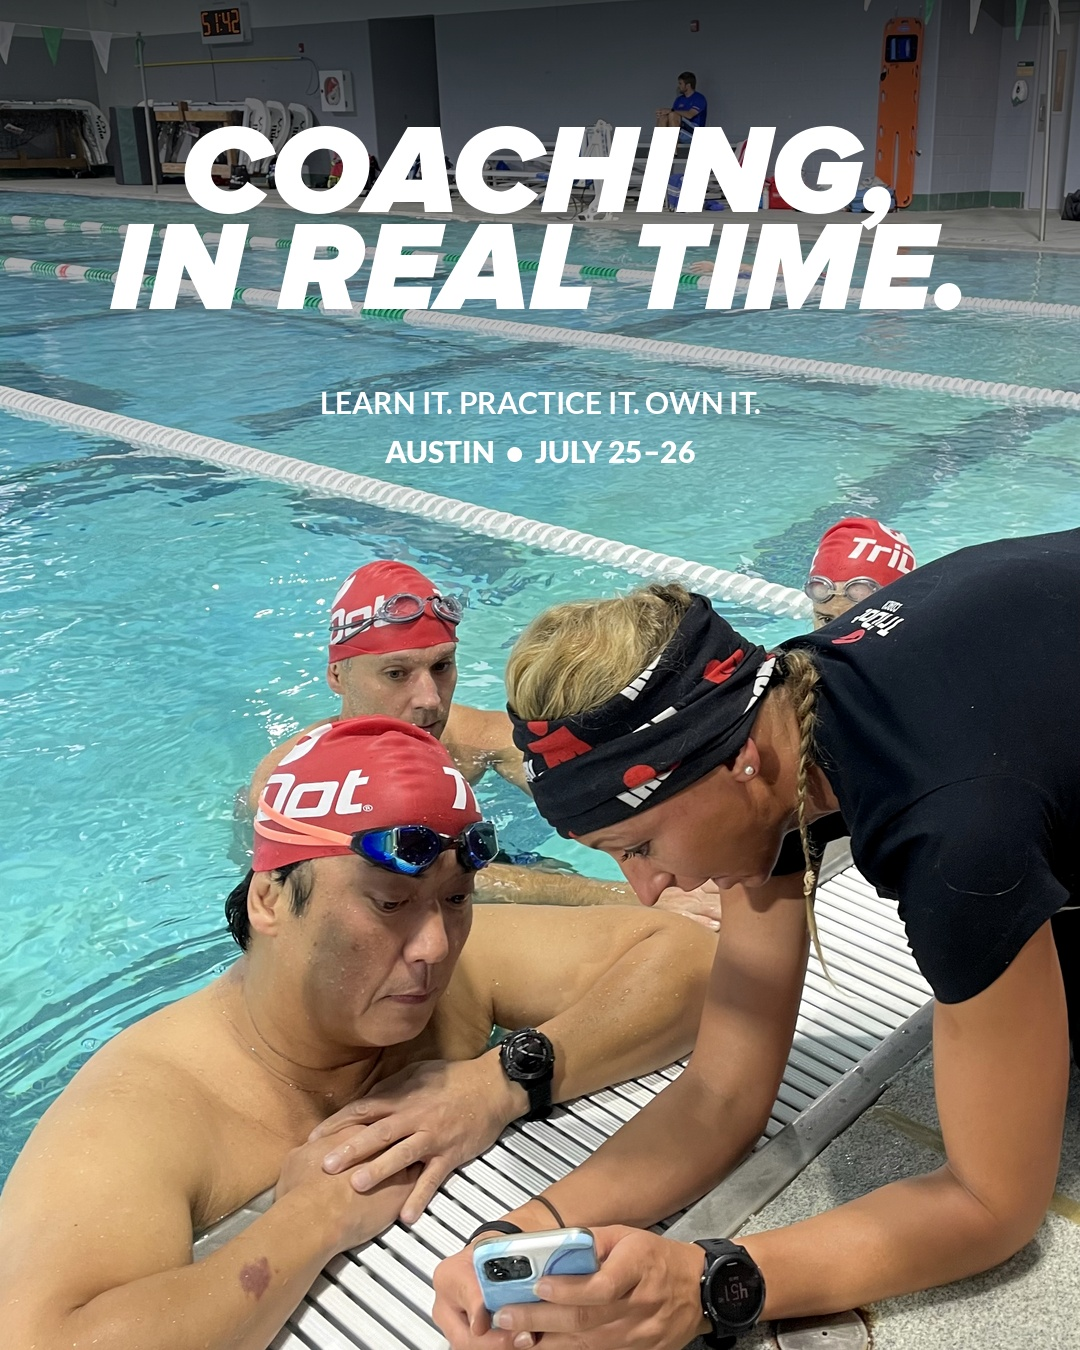
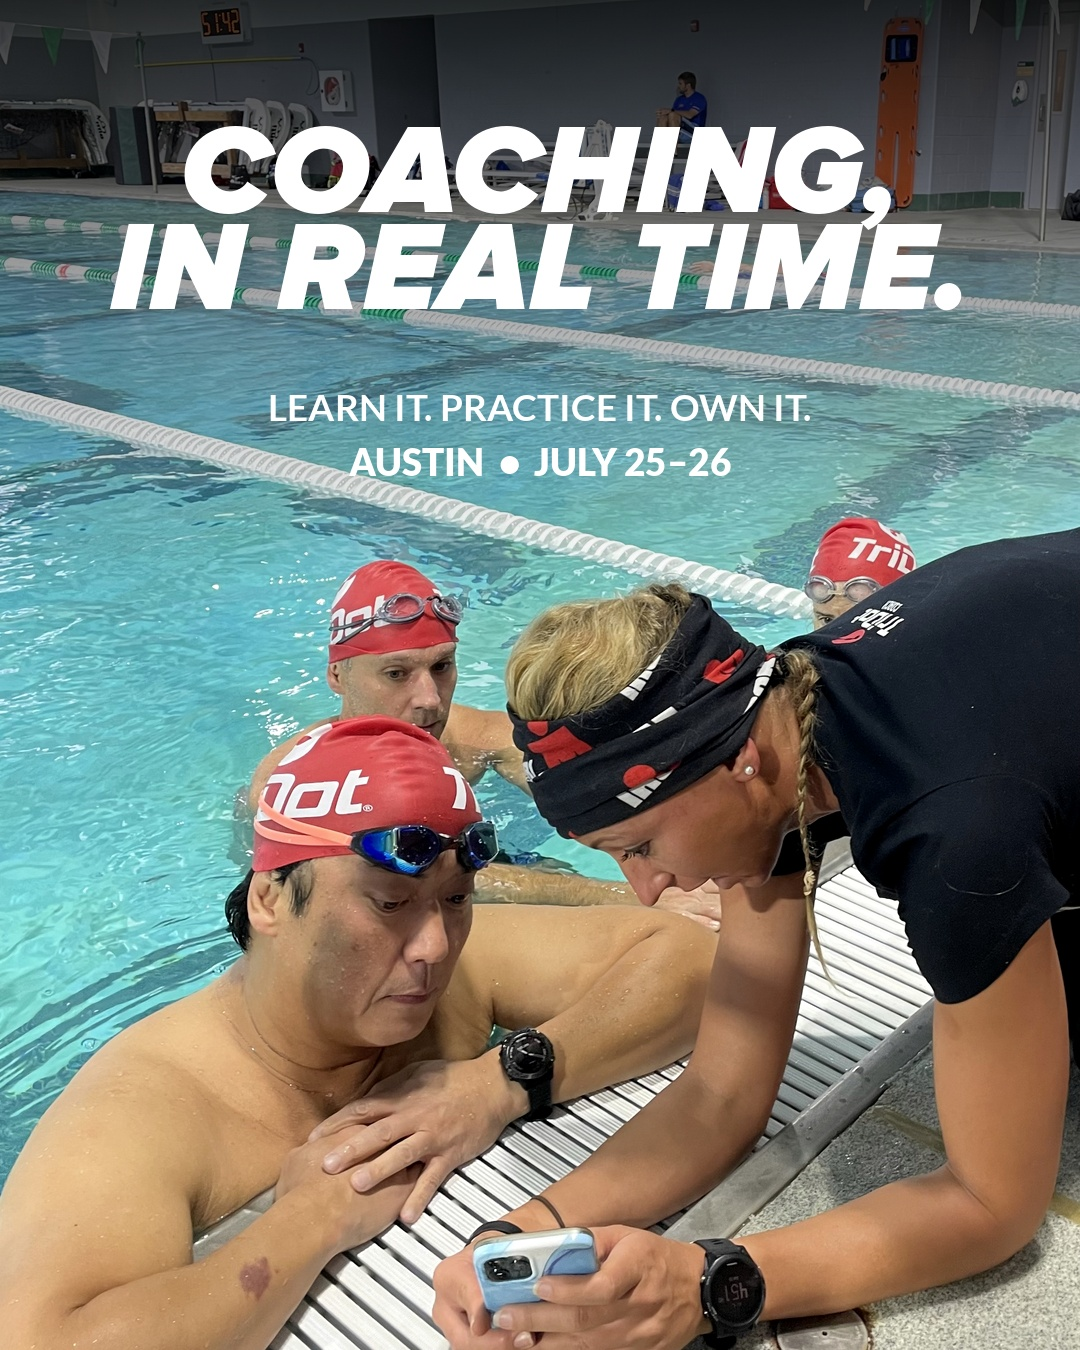
Refine top fade and supporting type on feedback post

Changed region(s): [[0.2444, 0.28, 0.7639, 0.3733]]

diff --git a/austin-pool-school-review/index.html b/austin-pool-school-review/index.html
@@ -15,5 +15,5 @@ const posts=[
 ['08-detail-matters.jpg','VALUE','The details make the difference','Small technique changes can lead to meaningful progress. Get focused coaching and drills designed to help you apply it back in your own training.'],
 ['09-personal-feedback.jpg','VALUE','Real-time feedback','See it. Understand it. Practice it. Bring your swim questions to Austin and leave with practical tools for your next session.'],
 ['10-austin-register-now.jpg','EVENT PROMO','Austin Pool School: Register now','July 25–26, 2026 · Austin Aquatics and Sports Academy · $599\n\nYour next opportunity to break out of the dreaded swim plateau starts here. Register now.']
-];let i=0;const $=id=>document.getElementById(id);function render(){let p=posts[i];$('title').textContent=`Post ${i+1} of ${posts.length}`;$('graphic').src='./assets/'+p[0]+'?v=white-headline-20260710';$('headline').textContent=p[2];$('caption').textContent=p[3];$('type').textContent=p[1];$('prev').disabled=i===0;$('next').disabled=i===posts.length-1;$('thumbs').innerHTML=posts.map((x,n)=>`<button class="thumb ${n===i?'active':''}" aria-label="View post ${n+1}" onclick="go(${n})"><img src="./assets/${x[0]}?v=white-headline-20260710"></button>`).join('')};function go(n){i=n;render()}$('prev').onclick=()=>go(i-1);$('next').onclick=()=>go(i+1);document.addEventListener('keydown',e=>{if(e.key==='ArrowLeft'&&i)go(i-1);if(e.key==='ArrowRight'&&i<posts.length-1)go(i+1)});render();
+];let i=0;const $=id=>document.getElementById(id);function render(){let p=posts[i];$('title').textContent=`Post ${i+1} of ${posts.length}`;$('graphic').src='./assets/'+p[0]+'?v=white-headline-topfade-20260710';$('headline').textContent=p[2];$('caption').textContent=p[3];$('type').textContent=p[1];$('prev').disabled=i===0;$('next').disabled=i===posts.length-1;$('thumbs').innerHTML=posts.map((x,n)=>`<button class="thumb ${n===i?'active':''}" aria-label="View post ${n+1}" onclick="go(${n})"><img src="./assets/${x[0]}?v=white-headline-topfade-20260710"></button>`).join('')};function go(n){i=n;render()}$('prev').onclick=()=>go(i-1);$('next').onclick=()=>go(i+1);document.addEventListener('keydown',e=>{if(e.key==='ArrowLeft'&&i)go(i-1);if(e.key==='ArrowRight'&&i<posts.length-1)go(i+1)});render();
 </script></body></html>
